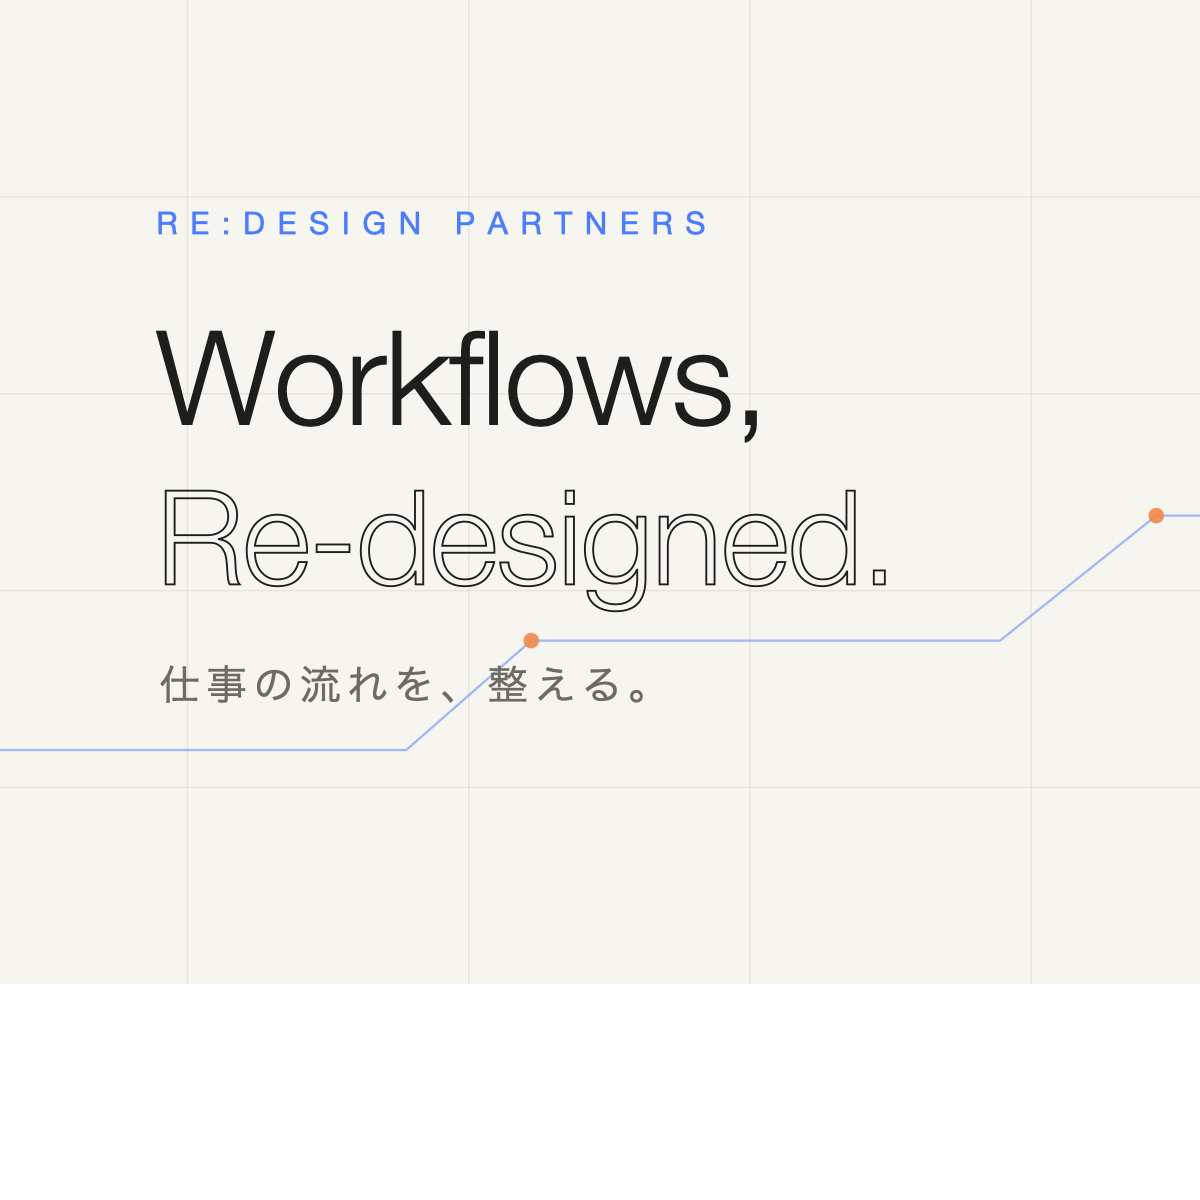
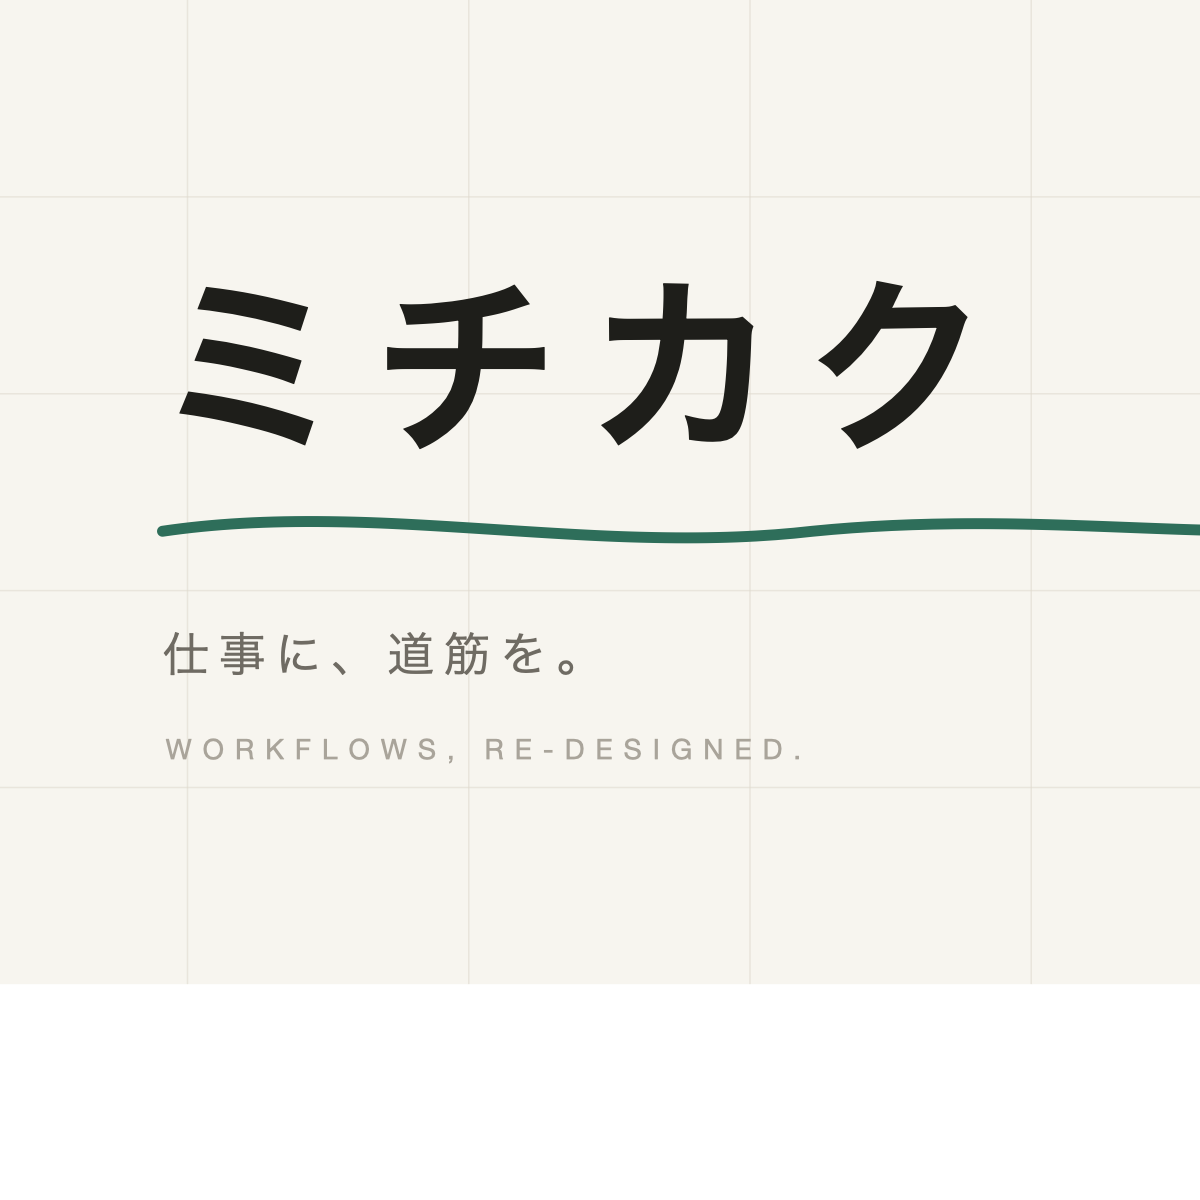
ブランドを「ミチカク」に変更、ロゴ実装
- 株式会社リデザインパートナーズ → ミチカク(株式会社表記を全廃、会社概要は「名称」表記に)
- D案メインロゴ:ヘッダー/フッターにワードマーク+道筋の線(緑#2E6E5A+オレンジの点#E06A3F)を実装
- B案アイコン:faviconを「ミ」の3画をオレンジの道筋が縫うSVGに刷新
- タグライン「仕事に、道筋を。/ Workflows, Re-designed.」をフッターに追加
- title / description / OGP画像 / プライバシーポリシー(当社→当方)/ 代表経歴 / 会社概要を更新

diff --git a/src/config.ts b/src/config.ts
@@ -2,15 +2,15 @@
  * サイト全体で使う設定値。社名・連絡先などはここだけ変更すれば全ページに反映されます。
  */
 export const SITE = {
-  // 会社名は仮称です。決定後にここを書き換えてください。
-  brandEn: "Re:Design Partners",
-  brandJa: "株式会社リデザインパートナーズ",
+  brandEn: "MICHIKAKU",
+  brandJa: "ミチカク",
+  tagline: "仕事に、道筋を。",
   representative: "毛利 元樹",
-  title: "Re:Design Partners | 事業が動く仕組みを設計するDXコンサルティング",
+  title: "ミチカク | 事業が動く仕組みを設計するDX・業務改善支援",
   description:
-    "営業、管理部門、意思決定の流れを整え、AI・CRM/SFA・SaaSを現場で使われる仕組みに落とし込むDXコンサルティング会社です。業務診断から設計、実装、運用改善まで支援します。",
-  // 問い合わせ先(公開用)。決定後に差し替えてください。
-  contactEmail: "[email redacted]",
+    "営業、管理部門、意思決定の流れを整え、AI・CRM/SFA・SaaSを現場で使われる仕組みに落とし込むDX・業務改善の支援サービスです。業務診断から設計、実装、運用改善まで支援します。",
+  // 問い合わせ先(公開用)。ドメイン取得後に差し替えてください。
+  contactEmail: "[email redacted]",
   // フォーム送信先(Formspree等のエンドポイント)。空の場合はメール作成画面を開くフォールバックになります。
   formEndpoint: "",
 } as const;

diff --git a/README.md b/README.md
@@ -1,4 +1,4 @@
-# Re:Design Partners — コーポレートサイト
+# ミチカク — コーポレートサイト
 
 DXコンサルティング会社のコーポレートサイト(Astro製・完全静的)。
 
@@ -23,7 +23,7 @@ npm run preview  # ビルド結果の確認
 
 | 項目 | 場所 |
 | --- | --- |
-| 会社名(現在は仮称) | `src/config.ts` の `brandEn` / `brandJa` |
+| 名称 | `src/config.ts` の `brandEn` / `brandJa` |
 | 問い合わせメールアドレス | `src/config.ts` の `contactEmail` |
 | フォーム送信先 | `src/config.ts` の `formEndpoint`(Formspree等のURL。空の場合はメール作成画面を開くフォールバック) |
 | 本番ドメイン | `astro.config.mjs` の `site`(canonical / OGP の絶対URLに使用)。独自ドメインに移行する際は `base` も削除 |